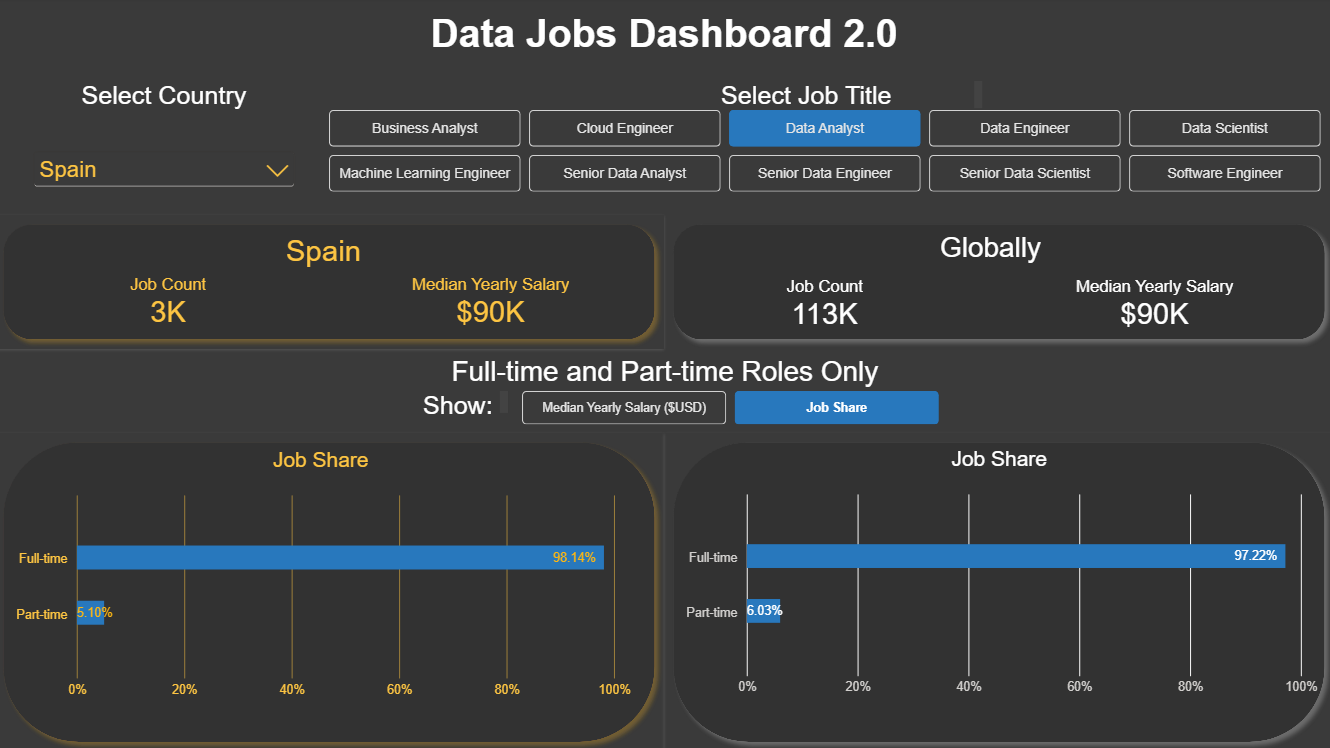
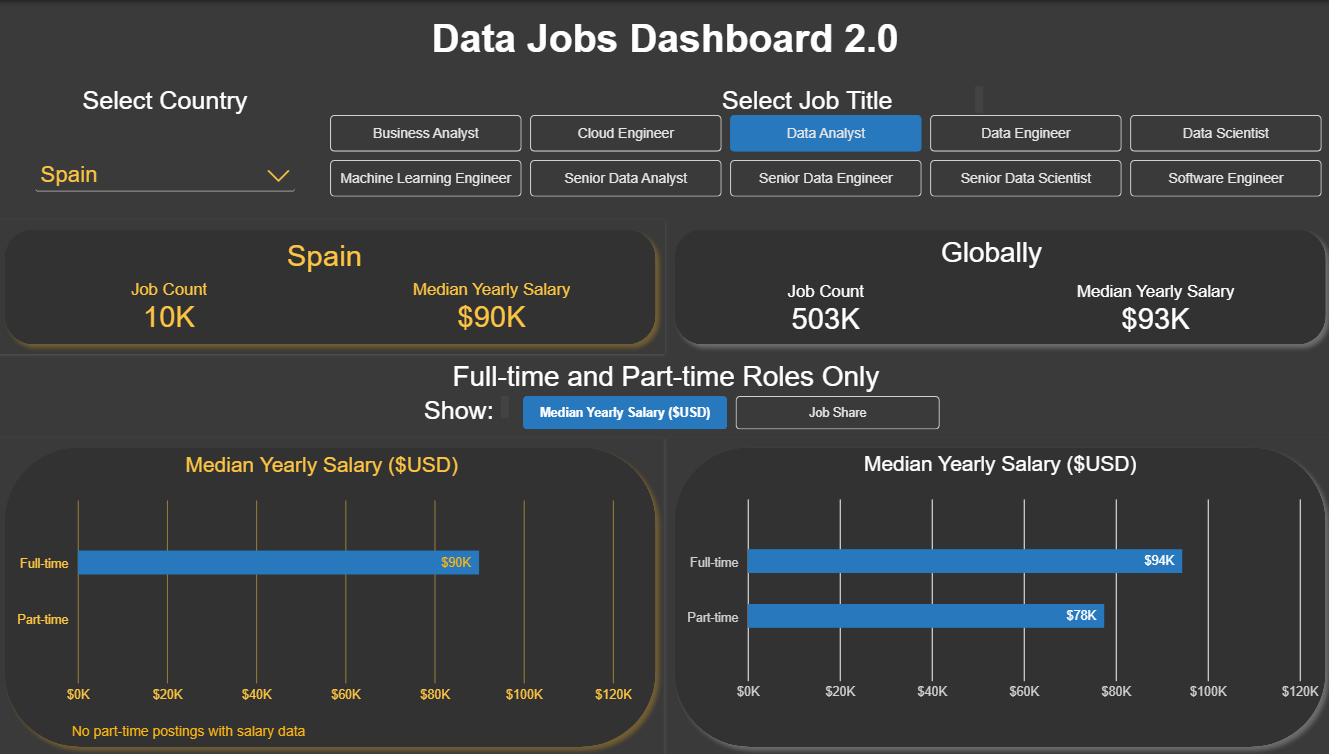
Updates to the readme to reflect the update to the underlying data to include the most recent data.

diff --git a/Data_Jobs_v2/README.md b/Data_Jobs_v2/README.md
@@ -13,7 +13,7 @@ This project is a one-page interactive Power BI dashboard designed for data prof
 
 Side-by-side KPI cards show job count and median yearly salary for the selected country and globally, while bar charts break down full-time and part-time roles, with a toggle to switch between median salary and each schedule type's share of postings.
 
-The data powering the dashboards comes from a *real-world dataset of job postings for various data-related roles from 2023 through August 2026*. 
+The data powering the dashboards comes from a *real-world dataset of job postings for various data-related roles from 2023 through October 2026*. 
 
 ## Skills Showcased
 
@@ -58,6 +58,28 @@ Each half shows KPI cards for job count and median yearly salary.
 Bottom part of the dashboard contains bar charts that break down full-time and part-time roles, with a "Show" toggle to switch between median salary and job share. Dynamic headers and notes update with every selection, for example naming the selected country and flagging when a schedule type has no data, so the comparison always stays clear and easy to read.
 
 ## Conclusion
-This dashboard (Version 2.0) turns a large dataset of job postings into a clear comparison of how a selected country's data job market stacks up against global figures. For example, it shows that the median yearly salary for **Data Analyst** in **Spain** is **$90K**, which is in line with the global offering, while full-time roles make up almost all postings in both cases. Note, that Job Share for full-time and part-time roles can add up to more than 100%.[^1] It helps **job seekers** make informed decisions about which data role to target and where, based on job availability, salary levels and schedule type.
+This dashboard (Version 2.0) turns a large dataset of job postings into a clear comparison of how a selected country's data job market stacks up against global figures. It helps **data nerds job seekers** make informed decisions about which data role to target and where, based on job availability, salary levels and schedule type.
 
-[^1]: A job posting can list more than one schedule type, so it may be counted in both groups.
+For example, as the screenshot below shows, the median yearly salary for **Data Analyst** in **Spain** is **$90K**, which is **$3K less than the global offering**. 
+
+![Dashboard Page 1](../images/Project2_Cards.png)
+
+Another screenshot below provides a more detail view of the median yearly salary of job postings filtered to include only part-time or full-time jobs:
+- **No salary data was found for part-time positions in Spain**, while
+- **globally, median yearly salary significantly increases when going from part-time to full-time jobs**: $94K for full-time positions against $78K for part-time positions.
+
+![Dashboard Page 1](../images/Project2_Salary.png)
+
+To investigate further the part-time job offerings, we can switch bar charts to show us the `Job Share` data:
+
+![Dashboard Page 1](../images/Project2_Job_Share.png)
+
+It's notable that **both Spain and global job offerings consist mainly of full-time positions**.[^1]
+The amount of part-time job postings is twice as big as that one of Spain. When consulting the tooltip of the Part-time bar for the global offerings, one can find that the median yearly salary data was computed on ~1K postings. 
+
+## Future Work
+Further improvements of the current dashboard may include adding filters on the global view to exclude data from the country selected in the left-hand side (it will be Spanish data for our running example). This will lead to a more precise comparison of job offerings between a selected country and the rest of the world.
+
+Additionally, other dimensions of the job postings data can be explored. For example, someone comparing job offers in Spain may be interested in learning how many of the jobs postings allow for remote work. Another very interesting dimension is the skills that job postings listed. It can be a crucial bit of information in the process of deciding which data-related jobs to pursue.
+
+[^1]: Note, that Job Share for full-time and part-time roles can add up to more than 100%. A job posting can list more than one schedule type, so it may be counted in both groups.
